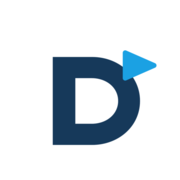
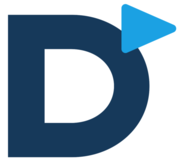
Icoon strakker bijgesneden (groter op tabblad), cache-buster v2 + v1.8

diff --git a/index.html b/index.html
@@ -310,11 +310,11 @@ body.board #outboundView .chip{display:flex;gap:.4vw;background:var(--panel);bor
 body.board #boardLogo{display:block;position:fixed;right:1.4vw;bottom:1.1vw;width:11vw;height:2.4vw;opacity:.6;z-index:60;pointer-events:none}
 @media (max-width:560px){.brand-logo{display:none}}
 </style>
-<link rel="icon" href="favicon.svg?v=1" type="image/svg+xml">
-<link rel="icon" href="favicon-32.png?v=1" sizes="32x32" type="image/png">
-<link rel="icon" href="favicon-16.png?v=1" sizes="16x16" type="image/png">
-<link rel="shortcut icon" href="favicon.ico?v=1">
-<link rel="apple-touch-icon" href="apple-touch-icon.png?v=1">
+<link rel="icon" href="favicon.svg?v=2" type="image/svg+xml">
+<link rel="icon" href="favicon-32.png?v=2" sizes="32x32" type="image/png">
+<link rel="icon" href="favicon-16.png?v=2" sizes="16x16" type="image/png">
+<link rel="shortcut icon" href="favicon.ico?v=2">
+<link rel="apple-touch-icon" href="apple-touch-icon.png?v=2">
 </head>
 <body>
 
@@ -1164,7 +1164,7 @@ function odDirect(u){
   if(/api\.onedrive\.com/.test(u)) return u;
   if(/1drv\.ms|onedrive\.live\.com/.test(u)){
     var b = btoa(u).replace(/\+/g,"-").replace(/\//g,"_").replace(/=+$/,"");
-    return "https://api.onedrive.com/v1.7/shares/u!" + b + "/root/content";
+    return "https://api.onedrive.com/v1.8/shares/u!" + b + "/root/content";
   }
   return u;
 }
@@ -2967,7 +2967,7 @@ body.wl-ro.board::after{ display:none; }
 </style>
 <script>
 (function(){
-  var APP_VERSION="v1.7";
+  var APP_VERSION="v1.8";
   window.__APP_VERSION=APP_VERSION;
   function show(){ try{ var host=document.querySelector(".topbar-in"); if(!host || document.getElementById("appVer")) return; var s=document.createElement("span"); s.id="appVer"; s.textContent=APP_VERSION; s.title="App-versie van deze PC (geen badge = oude versie, herlaad met Ctrl+F5)"; s.style.cssText="margin-left:8px;align-self:center;font:600 11px/1 var(--fb,system-ui,sans-serif);color:var(--muted,#8fa6c9);border:1px solid var(--line2,rgba(141,178,255,.32));border-radius:999px;padding:4px 9px"; host.appendChild(s); }catch(e){} }
   if(document.readyState!=="loading") setTimeout(show,800); else window.addEventListener("DOMContentLoaded",function(){ setTimeout(show,800); });
@@ -3040,7 +3040,7 @@ body.board #moreWrap{display:none}
 <script>
 (function(){
   "use strict";
-  var LOCAL=window.__APP_VERSION||"v1.7";
+  var LOCAL=window.__APP_VERSION||"v1.8";
   var outdated=false, banner=null, reloadT=null;
   window.__verOutdated=function(){ return outdated; };
   function showBanner(){
